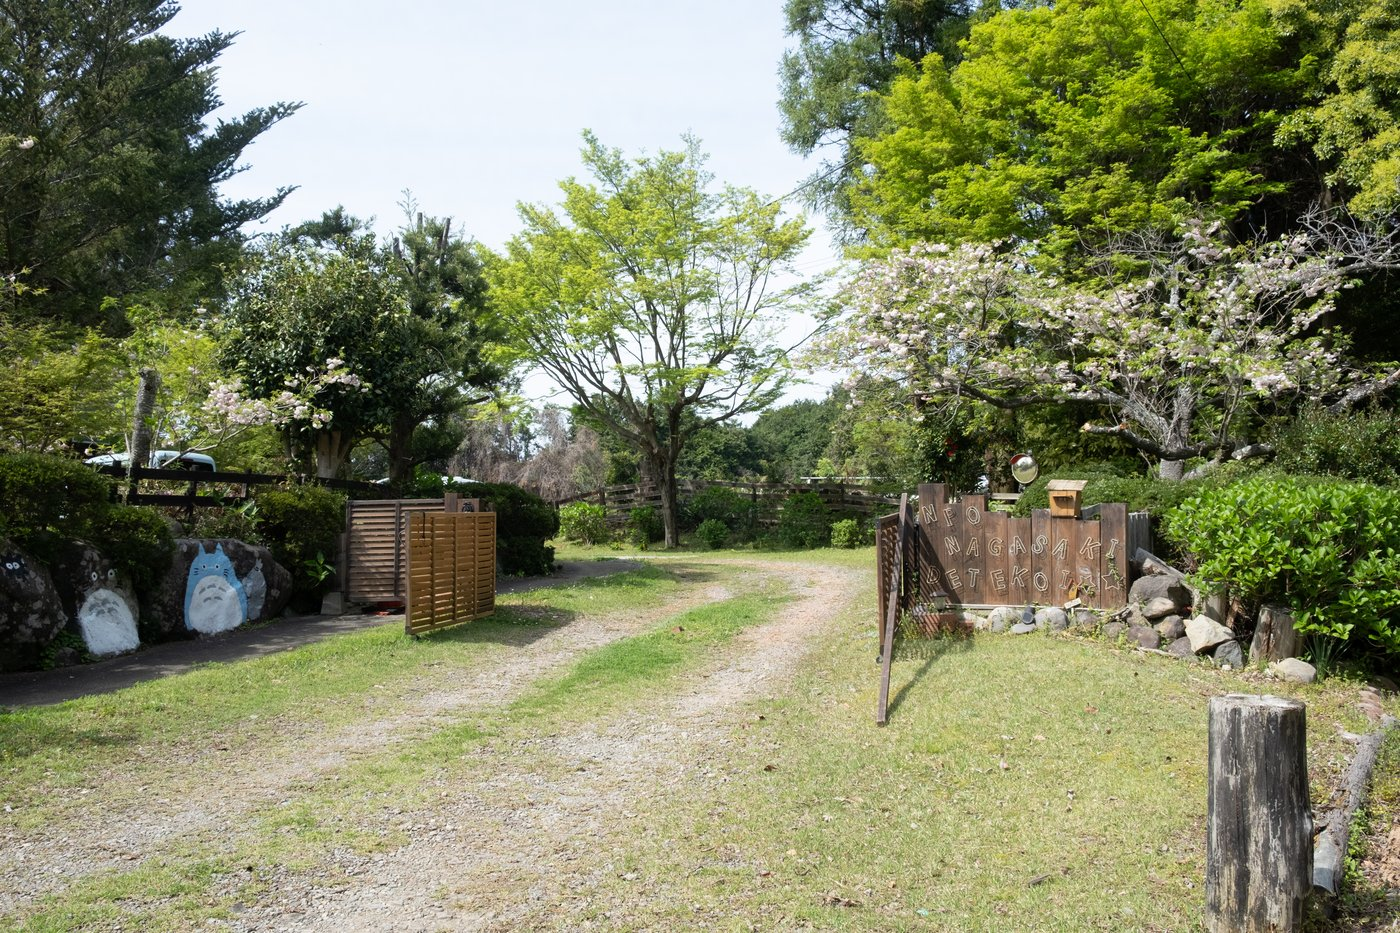
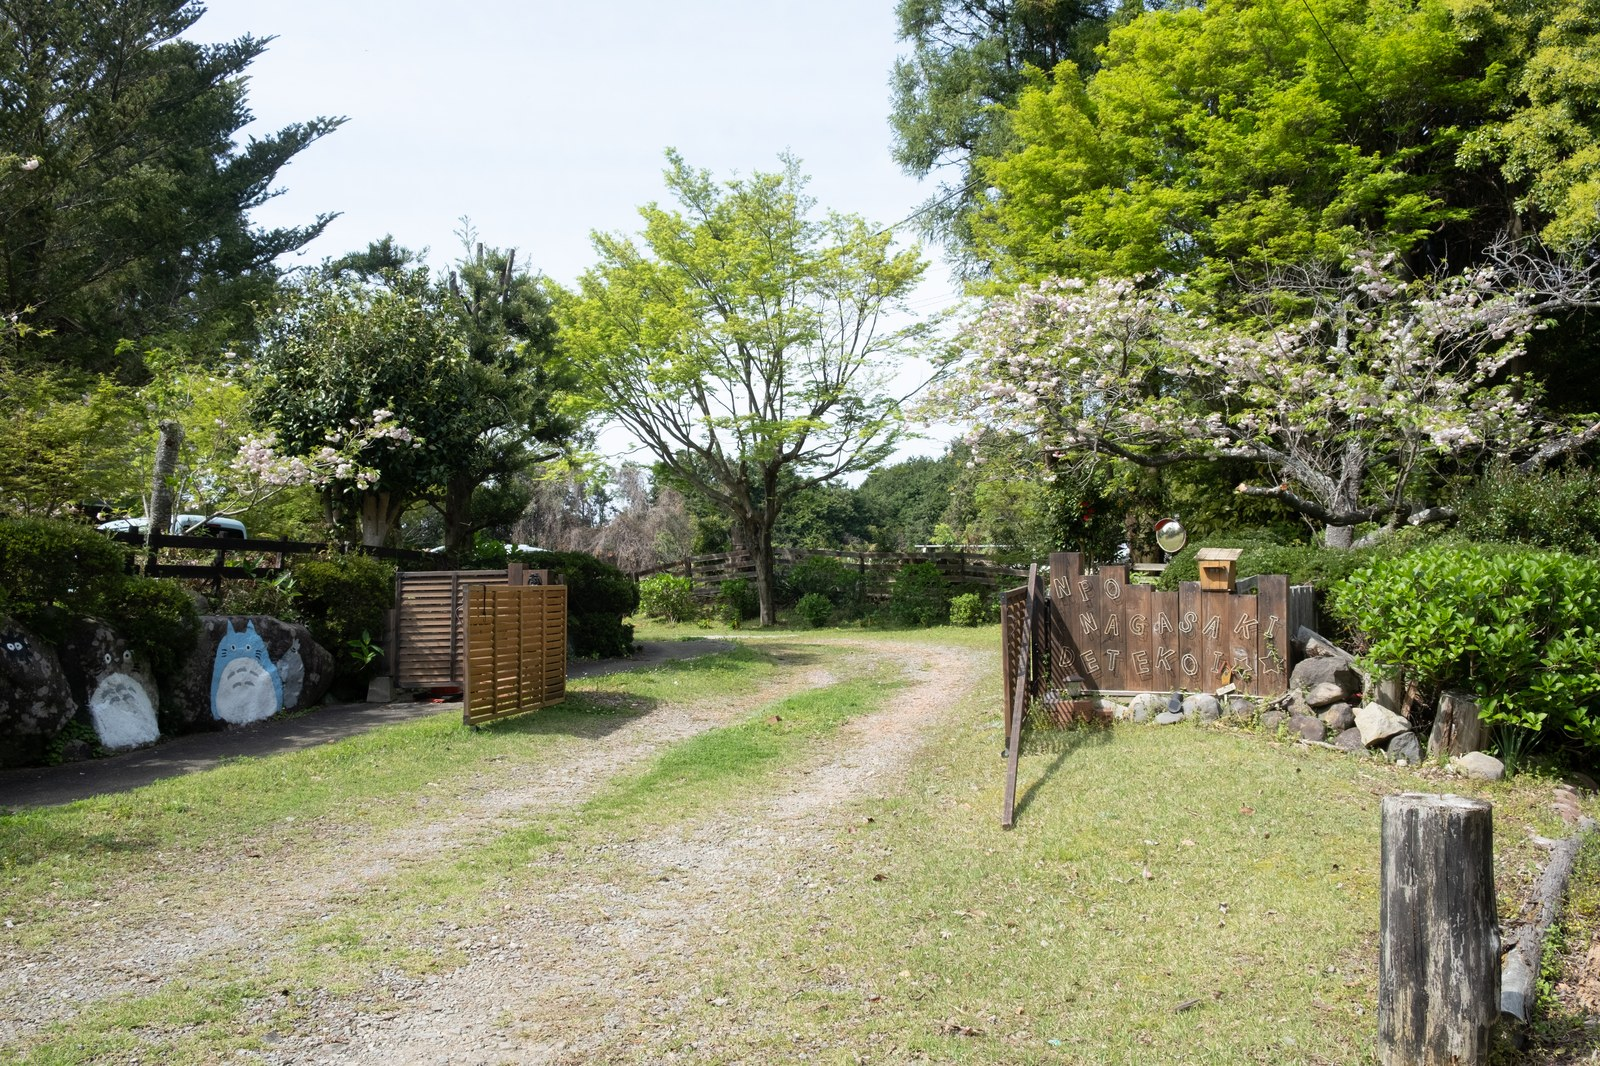
Swap ABOUT to outdoor DSCF9507 and add DSCF9552 facility overview.
Place the wide lodge overview between the 施設案内 heading and the
existing fixed-height slideshow on both A and B prototypes.

diff --git a/detekoi-land/index.html b/detekoi-land/index.html
@@ -118,7 +118,7 @@
       <div class="blob blob--br" aria-hidden="true"></div>
       <div class="section__inner about__grid">
         <figure class="photo-round">
-          <img src="./assets/photos/16-porch-detekoi.jpg" alt="でてこいランドの玄関・ポーチ" width="800" height="600" loading="lazy" />
+          <img src="./assets/photos/16-porch-detekoi.jpg" alt="でてこいランドの入口・アプローチ（トトロ岩と看板）" width="800" height="600" loading="lazy" />
         </figure>
         <div class="about__copy">
           <h2 class="section__title section__title--left">さあ、外へ出よう。</h2>
@@ -148,6 +148,9 @@
         <p class="section__lede">
           でてこいランドには大きなコテージや広場があり、子供たちがそのままでいられることの楽しさを感じられるよう日々整えております。見守り人もすぐ見渡せるよう、開放的なつくりにしています
         </p>
+        <figure class="facility-overview photo-round">
+          <img src="./assets/photos/facility-overview.jpg" alt="広々としたコテージ内観の全体像" width="1100" height="620" loading="lazy" />
+        </figure>
         <div class="facility-slideshow photo-round" data-facility-slideshow aria-roledescription="carousel" aria-label="施設写真スライドショー">
           <div class="facility-slideshow__viewport">
             <img class="is-active" src="./assets/photos/slides/slide-01-night-lodge.jpg" alt="夜、あたたかな灯りがともるログハウス" width="1100" height="620" />
@@ -199,7 +202,7 @@
           <img src="./assets/photos/17-director-illust.jpg" alt="長崎でてこいランド 似顔絵" width="600" height="800" loading="lazy" />
         </figure>
         <figure class="photo-round philosophy__photo">
-          <img src="./assets/photos/16-porch-detekoi.jpg" alt="でてこいランドの玄関" width="1000" height="560" loading="lazy" />
+          <img src="./assets/photos/16-porch-detekoi.jpg" alt="でてこいランドの入口・アプローチ" width="1000" height="560" loading="lazy" />
         </figure>
       </div>
     </section>

diff --git a/detekoi-land-mockup/index.html b/detekoi-land-mockup/index.html
@@ -86,6 +86,9 @@
       <div class="wrap">
         <p class="label">STAY / 施設案内</p>
         <h2>施設案内</h2>
+        <figure class="facility-overview">
+          <img src="./assets/photos/facility-overview.jpg" alt="広々としたコテージ内観の全体像" loading="lazy" />
+        </figure>
         <div class="stay-panel">
           <div class="stay-panel__visual">
             <p class="stay-panel__catch">ふっと深呼吸したくなる。</p>
@@ -156,7 +159,7 @@
           </div>
         </div>
         <figure>
-          <img src="./assets/photos/16-porch-detekoi.jpg" alt="でてこいランドの玄関・ポーチ" loading="lazy" />
+          <img src="./assets/photos/16-porch-detekoi.jpg" alt="でてこいランドの入口・アプローチ（トトロ岩と看板）" loading="lazy" />
         </figure>
       </div>
     </section>

diff --git a/detekoi-land/styles.css b/detekoi-land/styles.css
@@ -612,9 +612,22 @@ button, input, textarea { font: inherit; }
   text-shadow: 0 2px 10px rgba(0,0,0,0.35);
 }
 
+.facility-overview {
+  margin: 1.5rem 0 0;
+  overflow: hidden;
+}
+.facility-overview img {
+  display: block;
+  width: 100%;
+  aspect-ratio: 21 / 9;
+  object-fit: cover;
+  object-position: center 40%;
+  border-radius: var(--radius-xl);
+}
+
 .facility-slideshow {
   position: relative;
-  margin: 2rem 0 0;
+  margin: 1.5rem 0 0;
   width: 100%;
   aspect-ratio: 16 / 9;
   border-radius: var(--radius-xl);

diff --git a/detekoi-land-mockup/styles.css b/detekoi-land-mockup/styles.css
@@ -174,8 +174,22 @@ button, input, textarea { font: inherit; }
   overflow: hidden;
 }
 
+.facility-overview {
+  margin: 1.5rem 0 0;
+  border-radius: 18px;
+  overflow: hidden;
+  background: #dfe8e2;
+}
+.facility-overview img {
+  display: block;
+  width: 100%;
+  aspect-ratio: 21 / 9;
+  object-fit: cover;
+  object-position: center 45%;
+}
+
 .stay-panel {
-  margin-top: 2rem;
+  margin-top: 1.5rem;
   display: grid;
   grid-template-columns: 0.95fr 1.05fr;
   gap: 1.5rem;

diff --git a/detekoi-land/assets/README.md b/detekoi-land/assets/README.md
@@ -15,3 +15,5 @@ Active folder: `photos/`. Drop-in inbox: `REPLACE_PHOTOS_HERE/` (same filenames)
 | Totoro | `13-totoro-rocks.jpg` | client `0c3fdd68` |
 | Slideshow | `photos/slides/slide-01…10.jpg` | Drive + client mix |
 | Caricature | `17-director-illust.jpg` | Studio CDN (kept) |
+| Facility overview | `facility-overview.jpg` | Drive `DSCF9552.JPG` |
+| ABOUT outdoor | `16-porch-detekoi.jpg` | Drive `DSCF9507.JPG` |

diff --git a/detekoi-land-mockup/assets/README.md b/detekoi-land-mockup/assets/README.md
@@ -15,3 +15,5 @@ Active folder: `photos/`. Drop-in inbox: `REPLACE_PHOTOS_HERE/` (same filenames)
 | BBQ | `09-campfire.jpg` | Drive `DSCF9590` |
 | Totoro | `13-totoro-rocks.jpg` | client `0c3fdd68` |
 | Caricature | `17-director-illust.jpg` | Studio CDN (kept) |
+| Facility overview | `facility-overview.jpg` | Drive `DSCF9552.JPG` |
+| ABOUT outdoor | `16-porch-detekoi.jpg` | Drive `DSCF9507.JPG` |
